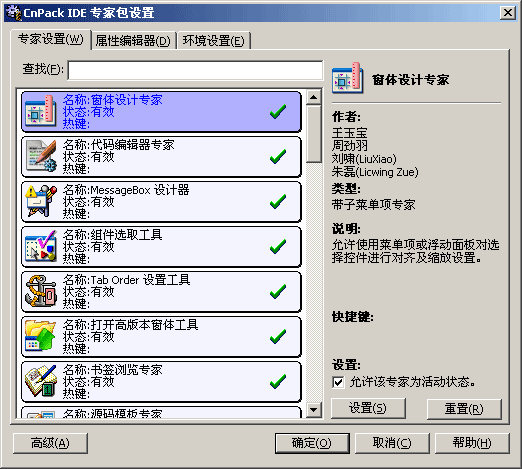
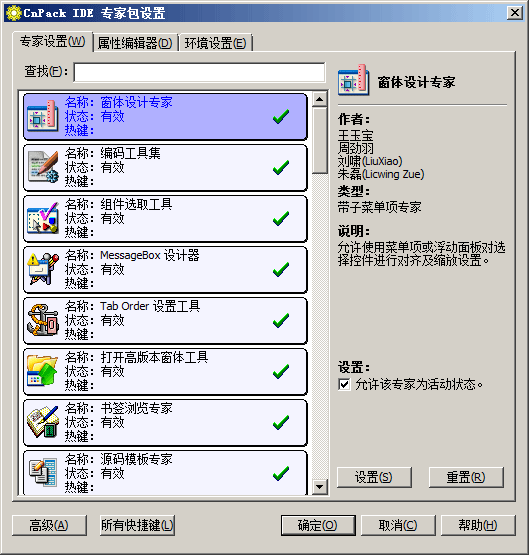
* [Help] Update Help for Config.

diff --git a/Help/CnWizards_ENU/options/wizconfig.htm b/Help/CnWizards_ENU/options/wizconfig.htm
@@ -65,6 +65,9 @@
   <li>
     <p class="text"><b>Advanced</b>: Advanced settings, see below.</p>
   </li>
+  <li>
+    <p class="text"><b>All Shortcuts</b>: Popup dialog to set all shortcuts of CnPack IDE Wizards.</p>
+  </li>
 </ul>
 <p class="text">&nbsp;</p>
 <p class="text"><strong>Advanced Settings</strong></p>
